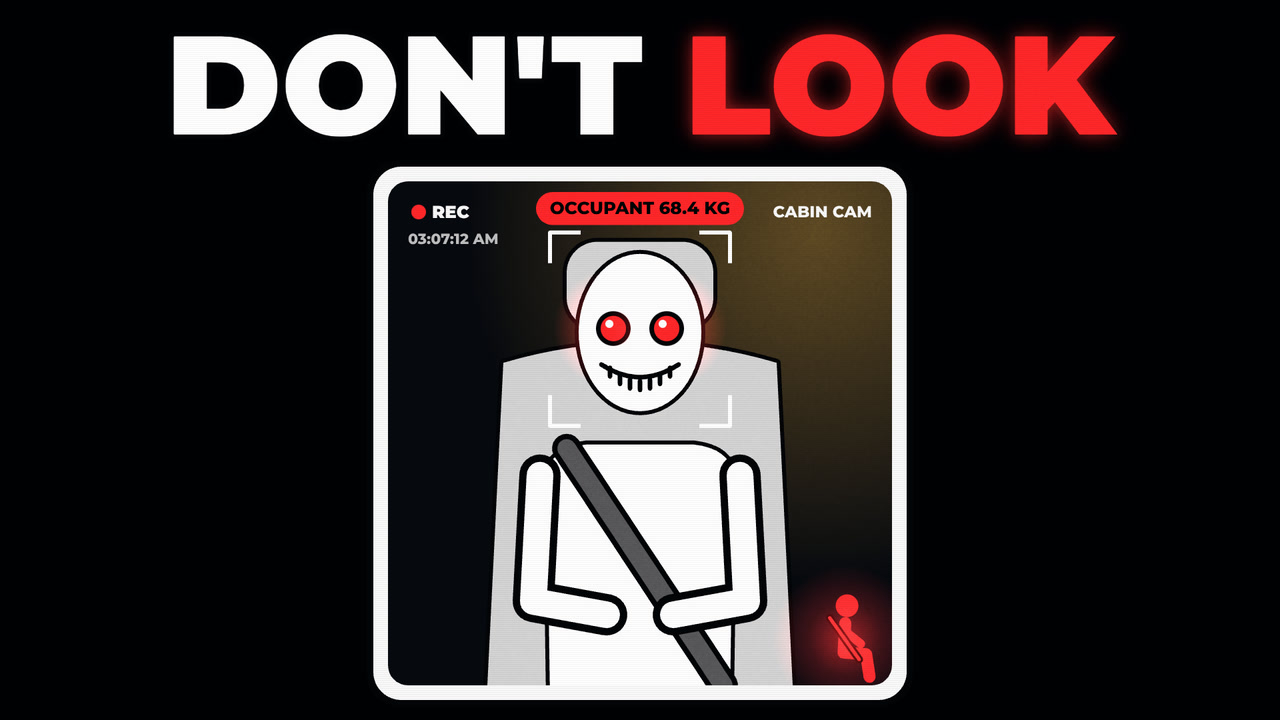
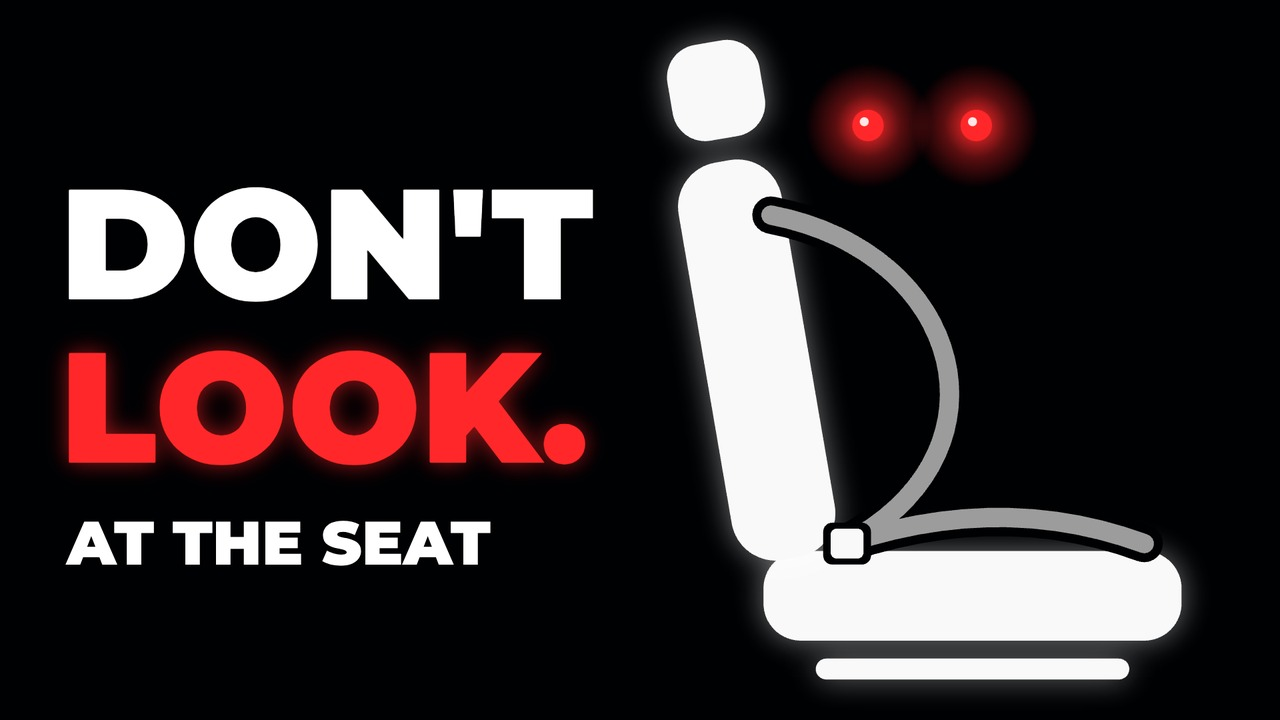
NIGHT SUPPORT 001 thumbnails v2: one big subject, glowing eyes, no small UI
A: the passenger's face fills the right side (no cabin-cam panel).
B: one glowing white seat whose belt is buckled around someone you can't see.

Claude-Session: https://claude.ai/code/session_01SLfZu2EXJVQcoMMMhqSiSU

diff --git a/aitrends-2d-studio-horror/projects/ns001-thumb/scenes/thumb.js b/aitrends-2d-studio-horror/projects/ns001-thumb/scenes/thumb.js
@@ -1,11 +1,16 @@
-// thumbnails for NIGHT SUPPORT 001, viral rule-video layout:
-//   thumbA: red half with huge white text + black line, curved arrow into a framed "cabin cam" panel
-//   thumbB: black version, big text over the same panel (for YouTube's thumbnail A/B test)
-// The subject is cartoon-outlined (white fill, thick black outline, glowing red eyes), unlike the in-video pictograms.
+// thumbnails for NIGHT SUPPORT 001 (v2, after comparing with the top rule-video channels at phone size):
+// one big subject, glowing eyes as the focal point, 2-3 words of huge text, almost no small UI.
+//   thumbA: red half with huge white text + black line, curved arrow into the passenger's face filling the right side
+//   thumbB: black, stacked text left, one glowing white pictogram right: an empty passenger seat whose belt is buckled
+//           around someone you can't see, red eyes where the head would be
+// The passenger is cartoon-outlined (white fill, thick black outline), unlike the in-video pictograms.
 import { E, registerShot, alpha, glow, radGrad, rr, circle } from '/engine/core.js';
 import * as NS from '/projects/ns001-empty-seat/scenes/ns.js';
 const { C, T } = NS;
 const RED = '#ff2b2b', INK = '#0a0a0a', OUT = 12;
+
+// thumbnails stay crisp: keep the style's contrast LUT but drop grain, scanlines, vignette and bloom
+E.style = { ...E.style, grade: { ...E.style.grade, grain: 0, scanlines: 0, vignette: 0, bloom: 0 } };
 
 function outlined(g, path, fill, w = OUT) { path(g); g.lineJoin = 'round'; g.lineWidth = w; g.strokeStyle = INK; g.stroke(); g.fillStyle = fill; g.fill(); }
 function bigText(g, str, x, y, size, col, shadow = true) {
@@ -13,41 +18,28 @@ function bigText(g, str, x, y, size, col, shadow = true) {
   T(g, str, x, y, { size, align: 'left', color: col, stroke: col === INK ? 0 : 14, strokeColor: INK });
 }
 
-// the cabin-cam panel: passenger seat with something buckled in
-function cabinCam(g, x, y, w, h) {
-  rr(g, x - 10, y - 10, w + 20, h + 20, 50); g.fillStyle = INK; g.fill();
-  rr(g, x, y, w, h, 42); g.fillStyle = '#f2f2f2'; g.fill();
-  const ix = x + 22, iy = y + 22, iw = w - 44, ih = h - 44;
-  g.save(); rr(g, ix, iy, iw, ih, 30); g.clip();
-  g.fillStyle = '#0d0f12'; g.fillRect(ix, iy, iw, ih);
-  g.fillStyle = radGrad(g, ix + iw * 0.85, iy + ih * 0.1, 0, iw * 0.7, [alpha(C.amber, 0.35), alpha(C.amber, 0)]); g.fillRect(ix, iy, iw, ih);
-  const cx = ix + iw * 0.5, base = iy + ih;
-  // seat back + headrest behind the figure
-  outlined(g, g => { g.beginPath(); g.moveTo(cx - 230, base + 20); g.lineTo(cx - 205, iy + ih * 0.36); g.quadraticCurveTo(cx, iy + ih * 0.28, cx + 205, iy + ih * 0.36); g.lineTo(cx + 230, base + 20); g.closePath(); }, '#cfcfcf');
-  outlined(g, g => rr(g, cx - 110, iy + ih * 0.12, 220, 130, 46), '#cfcfcf');
-  // body: narrow shoulders, long arms resting on the lap
-  const sy = iy + ih * 0.53, lap = iy + ih * 0.86;
-  outlined(g, g => { g.beginPath(); g.moveTo(cx - 135, base + 20); g.lineTo(cx - 140, sy + 40); g.quadraticCurveTo(cx - 135, sy, cx - 80, sy - 6); g.lineTo(cx + 80, sy - 6); g.quadraticCurveTo(cx + 135, sy, cx + 140, sy + 40); g.lineTo(cx + 135, base + 20); g.closePath(); }, '#ffffff');
-  // seat belt, already buckled
-  g.save(); g.lineCap = 'round'; g.strokeStyle = INK; g.lineWidth = 44; g.beginPath(); g.moveTo(cx - 110, sy); g.lineTo(cx + 125, base); g.stroke(); g.strokeStyle = '#5a5a5a'; g.lineWidth = 28; g.stroke(); g.restore();
-  for (const sx of [-1, 1]) { const arm = [[cx + sx * 150, sy + 40], [cx + sx * 160, lap - 20], [cx + sx * 50, lap]];
-    for (const [col, w] of [[INK, 62], ['#ffffff', 40]]) { g.save(); g.lineCap = 'round'; g.lineJoin = 'round'; g.strokeStyle = col; g.lineWidth = w; g.beginPath(); g.moveTo(...arm[0]); g.lineTo(...arm[1]); g.lineTo(...arm[2]); g.stroke(); g.restore(); } }
-  // head: pale, long, thin grin, red eyes
-  const hy = iy + ih * 0.3;
-  outlined(g, g => { g.beginPath(); g.ellipse(cx, hy, 92, 118, 0, 0, Math.PI * 2); }, '#ffffff');
-  for (const sx of [-1, 1]) { glow(g, cx + sx * 40, hy - 6, 90, RED, 0.9); circle(g, cx + sx * 40, hy - 6, 26, INK); circle(g, cx + sx * 40, hy - 6, 19, RED); circle(g, cx + sx * 40 - 6, hy - 13, 6, '#fff'); }
-  g.save(); g.lineCap = 'round'; g.strokeStyle = INK; g.lineWidth = 7; g.beginPath(); g.moveTo(cx - 58, hy + 48); g.quadraticCurveTo(cx, hy + 86, cx + 58, hy + 48); g.stroke();
-  for (let i = -3; i <= 3; i++) { const x = cx + i * 15, y = hy + 48 + 38 * (1 - (i / 4) ** 2) * 0.95 - 2; g.beginPath(); g.moveTo(x, y - 9); g.lineTo(x, y + 4); g.stroke(); } g.restore();
-  // face-detection box + camera UI
-  g.strokeStyle = '#ffffff'; g.lineWidth = 6; const bx = cx - 135, by = hy - 150, bw = 270, bh = 290, k = 46;
-  for (const [px, py, dx, dy] of [[bx, by, 1, 1], [bx + bw, by, -1, 1], [bx, by + bh, 1, -1], [bx + bw, by + bh, -1, -1]]) { g.beginPath(); g.moveTo(px + dx * k, py); g.lineTo(px, py); g.lineTo(px, py + dy * k); g.stroke(); }
-  NS.pill(g, cx, by - 36, 'OCCUPANT 68.4 KG', RED, { size: 26, solid: true });
-  circle(g, ix + 46, iy + 46, 11, RED); T(g, 'REC', ix + 66, iy + 47, { size: 26, align: 'left' });
-  T(g, 'CABIN CAM', ix + iw - 30, iy + 47, { size: 24, weight: 800, align: 'right' });
-  T(g, '03:07:12 AM', ix + 30, iy + 88, { size: 22, weight: 800, align: 'left', color: '#bbbbbb' });
-  NS.seatbeltIcon(g, ix + iw - 70, iy + ih - 70, 1.3, RED); glow(g, ix + iw - 70, iy + ih - 70, 110, RED, 0.6);
-  g.restore();
+// the passenger, close up: pale long head, hollow eyes with glowing red pupils, a too-wide grin, belted into a dark seat
+const skin = (g, x, y, r) => radGrad(g, x, y, 0, r, [[0, '#f8f8f8'], [0.6, '#e0e0e0'], [1, '#a2a2a2']]);
+function passengerClose(g, cx, cy) {
+  outlined(g, g => rr(g, cx - 380, cy - 170, 1000, 1000, 130), '#2a2c31');                    // seat back
+  outlined(g, g => rr(g, cx - 340, cy + 385, 760, 500, 220), '#d6d6d6');                      // shoulders
+  g.save(); g.lineCap = 'butt'; g.strokeStyle = INK; g.lineWidth = 92; g.beginPath(); g.moveTo(cx - 330, cy + 420); g.lineTo(cx + 420, cy + 700); g.stroke();
+  g.strokeStyle = '#55575e'; g.lineWidth = 64; g.stroke(); g.restore();                         // seat belt across the chest
+  g.save(); g.translate(cx, cy + 400); g.rotate(-0.1); g.translate(-cx, -cy - 400);           // head tilted, just slightly wrong
+  outlined(g, g => { g.beginPath(); g.ellipse(cx, cy, 300, 410, 0, 0, Math.PI * 2); }, skin(g, cx - 90, cy - 150, 520));
+  for (const sx of [-1, 1]) {
+    const ex = cx + sx * 125, ey = cy - 40;
+    g.save(); g.translate(ex, ey); g.rotate(sx * 0.16);
+    g.fillStyle = radGrad(g, 0, 0, 40, 120, ['rgba(40,40,50,0.6)', 'rgba(40,40,50,0)']); g.beginPath(); g.ellipse(0, 0, 120, 95, 0, 0, Math.PI * 2); g.fill();
+    g.fillStyle = INK; g.beginPath(); g.ellipse(0, 0, 84, 64, 0, 0, Math.PI * 2); g.fill(); g.restore();
+    glow(g, ex - sx * 12, ey + 4, 110, RED, 1); circle(g, ex - sx * 12, ey + 4, 21, RED); circle(g, ex - sx * 17, ey - 2, 6, '#ffe0e0');
+  }
+  g.save(); g.lineCap = 'round'; g.strokeStyle = INK; g.lineWidth = 11; const gy = cy + 175, gw = 185, gd = 62;
+  g.beginPath(); g.moveTo(cx - gw, gy); g.quadraticCurveTo(cx, gy + gd * 2, cx + gw, gy); g.stroke();
+  g.lineWidth = 7; for (let i = -6; i <= 6; i++) { const x = cx + i * 27, k = (x - cx) / gw, y = gy + gd * (1 - k * k); g.beginPath(); g.moveTo(x, y - 18); g.lineTo(x, y + 5); g.stroke(); }
+  g.restore(); g.restore();
 }
+
 function arrow(g, pts, w = 30) {
   const [a, b, c] = pts; const head = (col, s) => { const ang = Math.atan2(c[1] - b[1], c[0] - b[0]); g.save(); g.translate(c[0], c[1]); g.rotate(ang);
     g.beginPath(); g.moveTo(26 * s, 0); g.lineTo(-44 * s, -40 * s); g.lineTo(-44 * s, 40 * s); g.closePath(); g.fillStyle = col; g.fill(); g.restore(); };
@@ -58,18 +50,37 @@ registerShot('thumbA', { draw(g) {
   g.fillStyle = RED; g.fillRect(0, 0, E.W, E.H);
   g.fillStyle = radGrad(g, 520, 420, 0, 900, ['rgba(255,255,255,0.12)', 'rgba(255,255,255,0)']); g.fillRect(0, 0, E.W, E.H);
   g.fillStyle = radGrad(g, E.W / 2, E.H / 2, E.W * 0.45, E.W * 0.75, ['rgba(0,0,0,0)', 'rgba(0,0,0,0.25)']); g.fillRect(0, 0, E.W, E.H);
-  cabinCam(g, 1010, 90, 840, 900);
+  passengerClose(g, 1500, 450);
   bigText(g, "DON'T", 70, 255, 250, '#ffffff');
   bigText(g, 'LOOK', 70, 495, 250, '#ffffff');
   T(g, 'AT THE SEAT', 82, 660, { size: 104, align: 'left', color: INK });
-  arrow(g, [[300, 790], [520, 990], [930, 760]]);
+  arrow(g, [[300, 790], [600, 1010], [1150, 760]]);
 }});
 
+// side view of the passenger seat as a glowing white pictogram (black gaps instead of outlines, like the video)
 registerShot('thumbB', { draw(g) {
-  g.fillStyle = '#060606'; g.fillRect(0, 0, E.W, E.H);
-  cabinCam(g, 560, 250, 800, 800);
-  g.save(); g.font = '900 210px "Montserrat"'; const w1 = g.measureText("DON'T ").width, w2 = g.measureText('LOOK').width; g.restore();
-  const x0 = E.W / 2 - (w1 + w2) / 2;
-  T(g, "DON'T", x0, 140, { size: 210, align: 'left', color: '#ffffff', stroke: 14, strokeColor: INK });
-  T(g, 'LOOK', x0 + w1, 140, { size: 210, align: 'left', color: RED, stroke: 14, strokeColor: INK, glow: 30, glowColor: alpha(RED, 0.6) });
+  g.fillStyle = '#050505'; g.fillRect(0, 0, E.W, E.H);
+  T(g, "DON'T", 90, 380, { size: 235, align: 'left', color: '#ffffff' });
+  T(g, 'LOOK.', 90, 625, { size: 235, align: 'left', color: RED, glow: 34, glowColor: alpha(RED, 0.6) });
+  T(g, 'AT THE SEAT', 100, 820, { size: 92, align: 'left', color: '#ffffff' });
+  // the seat is drawn around a local origin (0, 0) at the back of the cushion, then placed and scaled
+  g.save(); g.translate(1190, 905); g.scale(1.12, 1.12);
+  const W = '#f2f2f2', bx = 0, by = 0;
+  g.save(); g.shadowColor = 'rgba(255,255,255,0.45)'; g.shadowBlur = 45; g.fillStyle = W;
+  rr(g, bx - 40, by - 70, 560, 120, 50); g.fill();                                              // cushion
+  rr(g, bx + 30, by + 74, 420, 28, 14); g.fill();                                               // rail
+  g.save(); g.translate(bx, by - 40); g.rotate(-0.17);
+  rr(g, -70, -560, 140, 540, 60); g.fill();                                                     // seat back
+  rr(g, -55, -720, 125, 130, 44); g.fill();                                                     // headrest
+  g.restore(); g.restore();
+  // the belt, buckled and bulging around a body that isn't there
+  g.save(); g.lineCap = 'round'; g.lineJoin = 'round';
+  const belt = g => { g.beginPath(); g.moveTo(bx - 30, by - 520); g.bezierCurveTo(bx + 230, by - 470, bx + 300, by - 200, bx + 70, by - 80); g.moveTo(bx + 70, by - 80); g.quadraticCurveTo(bx + 280, by - 150, bx + 470, by - 80); };
+  belt(g); g.strokeStyle = '#050505'; g.lineWidth = 50; g.stroke();
+  belt(g); g.strokeStyle = '#9a9a9a'; g.lineWidth = 26; g.stroke();
+  rr(g, bx + 40, by - 108, 64, 56, 12); g.fillStyle = '#050505'; g.fill(); rr(g, bx + 50, by - 100, 44, 40, 8); g.fillStyle = W; g.fill();   // buckle
+  g.restore();
+  // where the head would be
+  for (const ex of [bx + 100, bx + 245]) { glow(g, ex, by - 640, 85, RED, 1); circle(g, ex, by - 640, 21, RED); circle(g, ex - 5, by - 645, 6, '#ffe0e0'); }
+  g.restore();
 }});

diff --git a/aitrends-2d-studio-horror/projects/ns001-empty-seat/youtube.md b/aitrends-2d-studio-horror/projects/ns001-empty-seat/youtube.md
@@ -2,8 +2,9 @@
 
 **File:** `out/If_Your_Car_Ever_Beeps_For_The_Empty_Passenger_Seat_DONT_LOOK.mp4` (1920×1080, 30 fps, ~3:46)
 
-**Thumbnails:** `thumbnail.jpg` (A: red, "DON'T LOOK / AT THE SEAT" + arrow to the cabin cam) and
-`thumbnail_B.jpg` (B: black). Upload A, then add B in YouTube Studio → Thumbnail → "Test & compare".
+**Thumbnails:** `thumbnail.jpg` (A: red, "DON'T LOOK / AT THE SEAT" + arrow to the passenger's face, red eyes, seatbelt)
+and `thumbnail_B.jpg` (B: black, "DON'T LOOK." + one glowing white passenger seat, its belt buckled around someone
+you can't see, red eyes where the head would be). Upload A, then add B in YouTube Studio → Thumbnail → "Test & compare".
 
 ## Title
 
